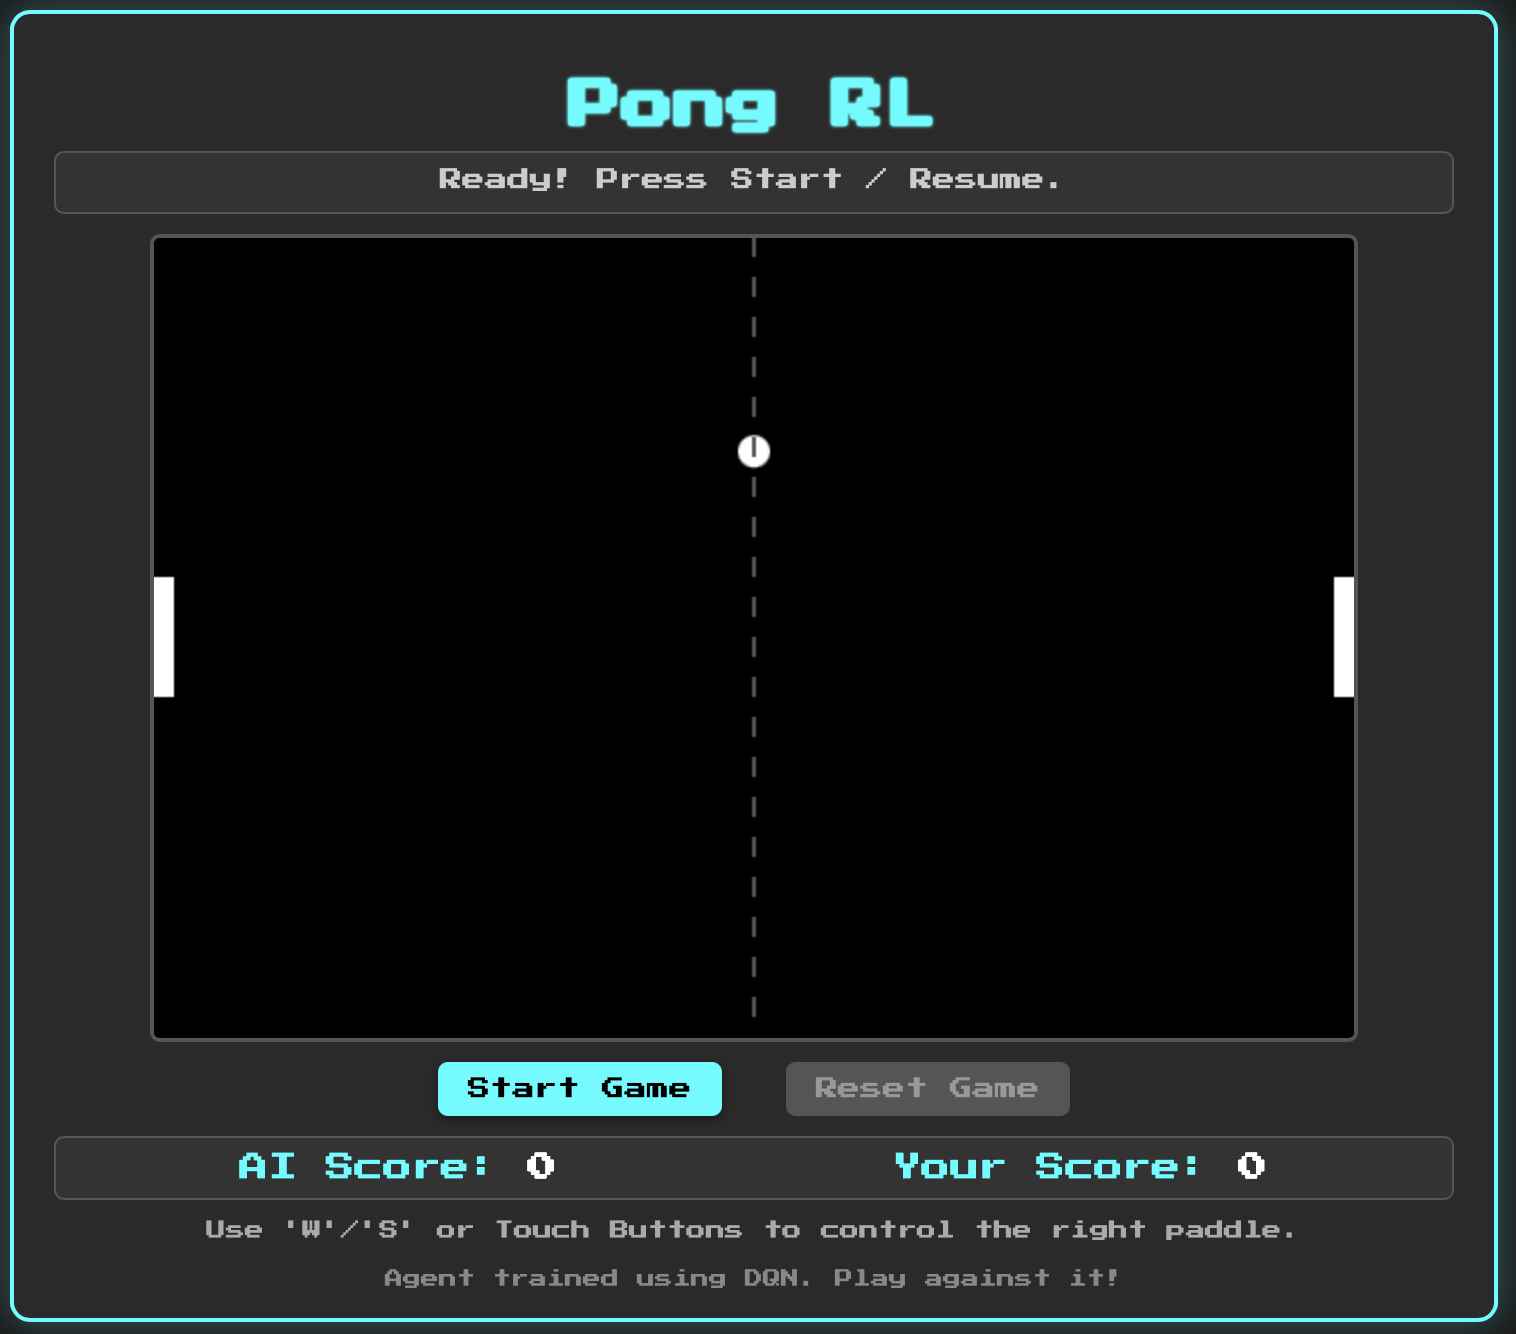
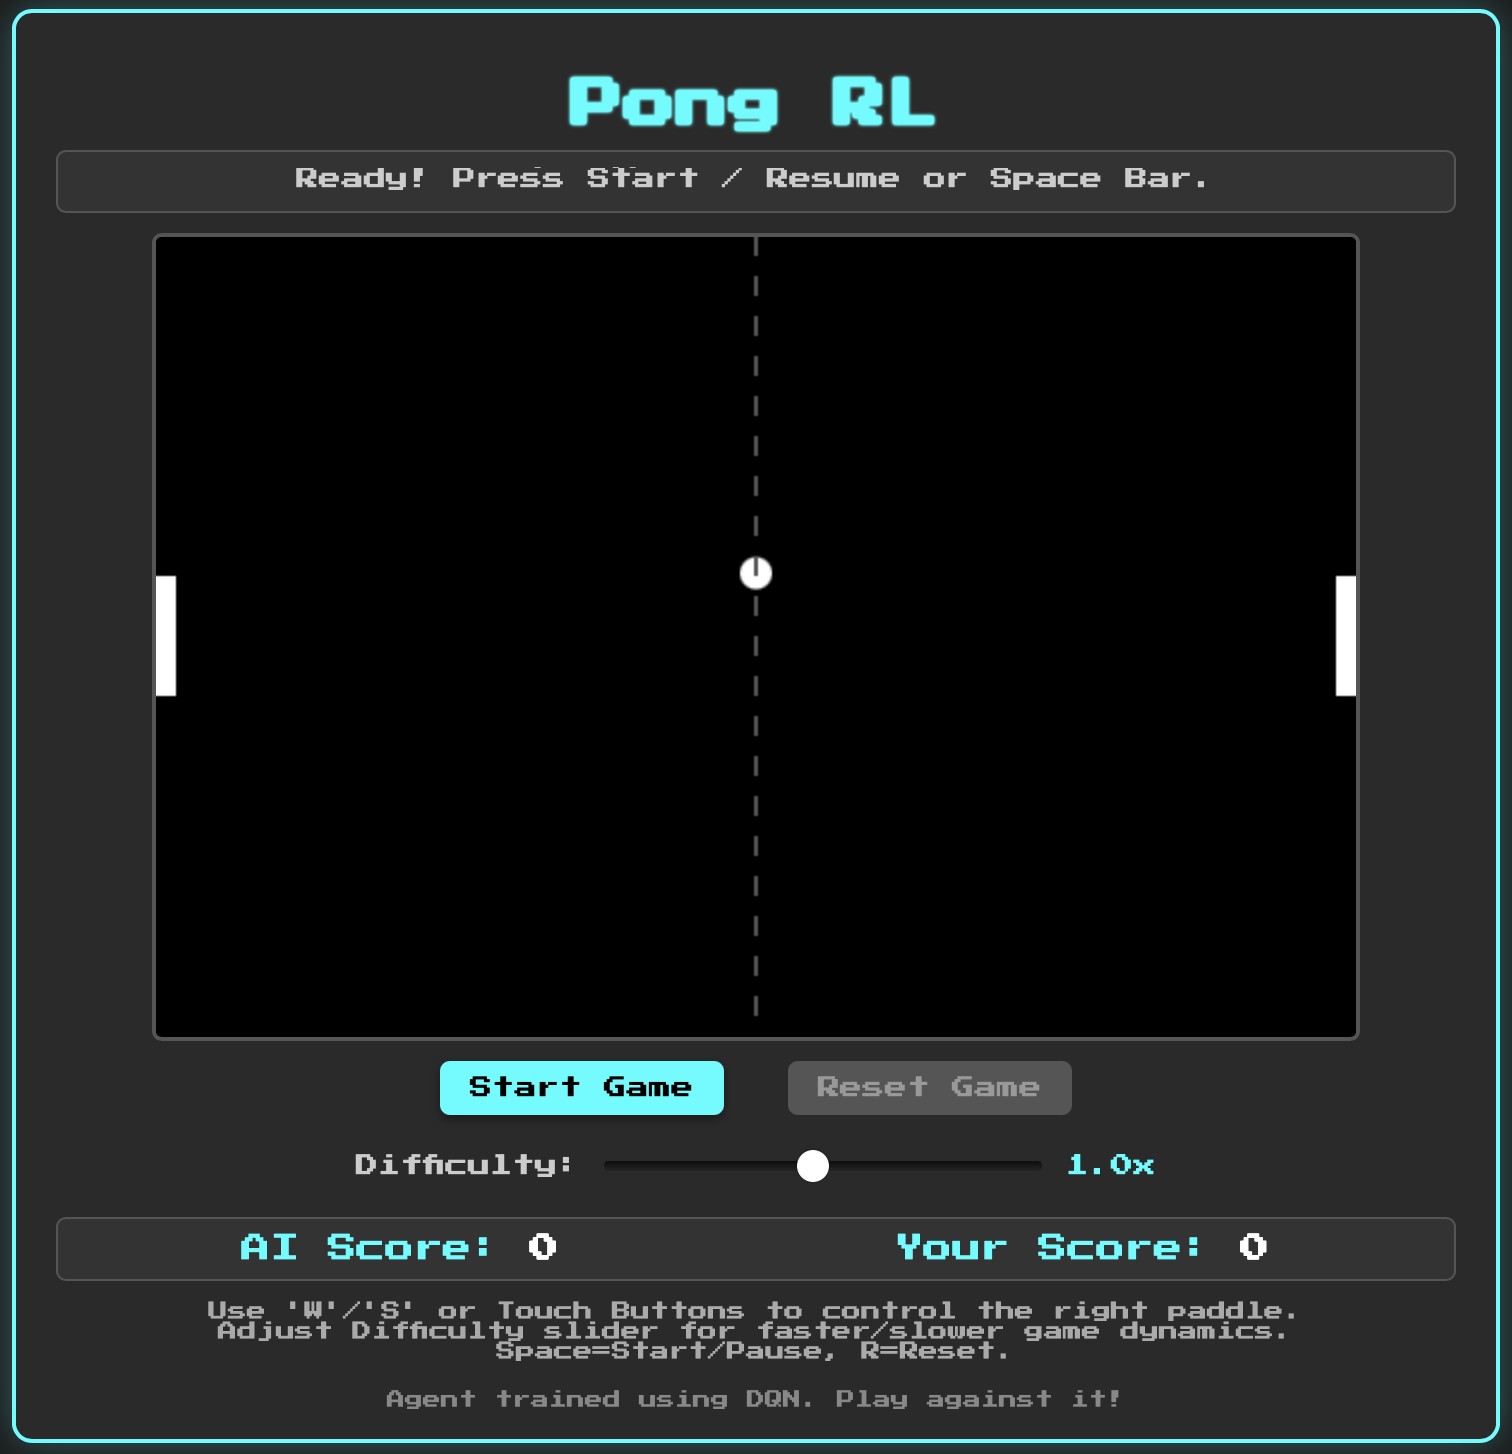
Updated README.md, preview image and difficulty range in index.html

Changed region(s): [[0.0, 0.0, 0.9947, 1.0], [0.4663, 0.3073, 0.5284, 0.4303], [0.0, 0.0, 0.0311, 0.0307]]

diff --git a/docs/index.html b/docs/index.html
@@ -20,7 +20,7 @@
         </div>
         <div class="difficulty-control">
             <label for="difficultySlider">Difficulty:</label>
-            <input type="range" id="difficultySlider" name="difficulty" min="0.5" max="2.0" step="0.1" value="1.0">
+            <input type="range" id="difficultySlider" name="difficulty" min="0.1" max="2.0" step="0.1" value="1.0">
             <span id="difficultyValue">1.0x</span>
         </div>
         <div class="touch-controls">

diff --git a/README.md b/README.md
@@ -8,43 +8,48 @@ This is a browser-based Pong game where you can play against an AI trained with 
 
 ## 🧠 How the Agent Was Trained
 
-- **Algorithm:** Deep Q-Network (DQN)
-- **Environment:** Custom-built Pong environment (not Gym)
-- **Opponent:** A deterministic, rule-based paddle
-- **Goal:** Train until the agent achieves ~80% win rate against the deterministic opponent
-- **Export:** Model converted to ONNX for use in browser (see `source/convert_model.py`)
+* **Algorithm:** Deep Q-Network (DQN)
+* **Environment:** Custom-built Pong environment (not Gym) with 5D state (excluding opponent paddle) and faster dynamics.
+* **Opponent (Training):** A deterministic, rule-based paddle with matching speed.
+* **Goal:** Train until the agent achieves a high win rate against the deterministic opponent in the faster environment.
+* **Export:** Model converted to ONNX for use in browser (see `source/convert_model.py`).
 
 Training scripts and supporting files:
-- `source/train.py`: Training loop
-- `source/dqn_agent.py`: Agent logic
-- `source/pong_env.py`: Custom environment
-- `source/model.py`: PyTorch DQN model
-- `source/replay_buffer.py`: Experience replay implementation
-- `pong.pth`: Fully trained Pong RL Agent
+
+* `source/train_pong.py`: Training loop (configured for 5D state)
+* `source/dqn_agent.py`: Agent logic
+* `source/pong_env.py`: Custom environment
+* `source/model.py`: PyTorch DQN model
+* `source/replay_buffer.py`: Experience replay implementation
+* `pong.pth`: Fully trained Pong RL Agent
 
 ---
 
 ## 🎮 How to Play
 
-- Use **`W` / `S` keys** (or touch buttons on mobile) to move your paddle (right side).
-- Try to beat the AI agent (left paddle)!
-- The first to 10 points wins.
+* **Start/Pause/Resume:** Press the **Space Bar** or click the "Start / Resume" button.
+* **Move Your Paddle (Right):** Use the **`W`** (Up) and **`S`** (Down) keys, or the **Touch Buttons** on mobile devices.
+* **Adjust Difficulty:** Use the **Difficulty slider** to change the game speed (affects ball and paddle speeds). Can only be adjusted when the game is paused or before starting.
+* **Reset Game:** Press the **`R`** key or click the "Reset Game" button to reset scores and positions.
+* **Goal:** Try to score points against the AI agent controlling the left paddle! The game continues automatically after each point.
 
 ---
 
 ## 🛠 Tech Stack
 
 ### 🕹 Frontend (docs/)
-- **HTML, CSS, JavaScript** — Interactive game UI
-- **Model Runtime:** [ONNX Runtime Web](https://www.npmjs.com/package/onnxruntime-web)
-- **Font:** [Press Start 2P](https://fonts.google.com/specimen/Press+Start+2P)
-- **Model Inference:** `agent.js` uses ONNX to infer paddle movement in real time
+
+* **HTML, CSS, JavaScript** — Interactive game UI
+* **Model Runtime:** [ONNX Runtime Web](https://www.npmjs.com/package/onnxruntime-web)
+* **Font:** [Press Start 2P](https://fonts.google.com/specimen/Press+Start+2P)
+* **Model Inference:** `agent.js` uses ONNX to infer paddle movement in real time
 
 ### 🧠 Training (source/)
-- **Framework:** PyTorch
-- **RL Algorithm:** Deep Q-Network (DQN) with target network and replay buffer
-- **Model Export:** Python-to-ONNX conversion using `torch.onnx.export`
-- **Testing Tools:** `play.py` using `pygame` for visual evaluation of RL Agent
+
+* **Framework:** PyTorch
+* **RL Algorithm:** Deep Q-Network (DQN) with target network and replay buffer
+* **Model Export:** Python-to-ONNX conversion using `torch.onnx.export`
+* **Testing Tools:** `play.py` using `pygame` for visual evaluation of RL Agent
 
 ---
 
@@ -57,12 +62,14 @@ Training scripts and supporting files:
 ## 📦 Setup Locally
 
 ### 1. Clone the Repository
+
 ```bash
 git clone https://github.com/oystebw/pong-rl-game.git
 cd pong-rl-game
 ```
 
 ### 2. Set Up Python Environment
+
 ```bash
 python3.10 -m venv venv
 source venv/bin/activate
@@ -73,6 +80,7 @@ pip3 install -r requirements.txt
 > You can install it via [pyenv](https://github.com/pyenv/pyenv), [Homebrew](https://brew.sh), or your system package manager.
 
 ### 3. Launch Browser Game
+
 ```bash
 cd docs
 python3 -m http.server 8000
@@ -80,20 +88,27 @@ python3 -m http.server 8000
 ```
 
 ### 4. Train a New Agent (Optional)
+
 ```bash
 cd source
-python3 train.py # See file for tunable parameters
+# Ensure pong_env.py has desired speeds/state settings
+python3 train_pong.py # See file for tunable parameters
 ```
 
 ### 4.1. Convert the New Agent to ONNX and Integrate with Frontend (Optional)
+
 ```bash
+# Make sure convert_model.py points to the correct .pth file and has correct STATE_DIM
 python3 convert_model.py
 cd ..
-mv dqn_pong_agent.onnx docs/dqn_pong_agent.onnx
+# Ensure the output ONNX file name matches the one loaded in agent.js
+mv source/dqn_pong_agent.onnx docs/dqn_pong_agent.onnx
 ```
 
 ### 5. Visualize Agent Performance (Optional)
+
 ```bash
 cd source
-python3 play.py # See file for tunable parameters
+# Ensure play_pong.py points to the correct .pth file and hidden_dim
+python3 play_pong.py
 ```
